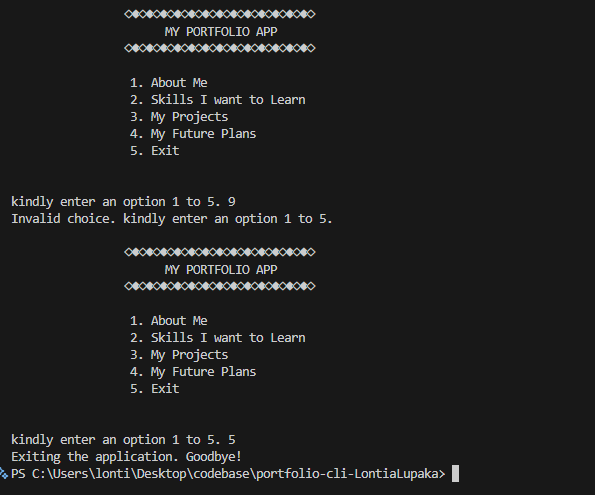
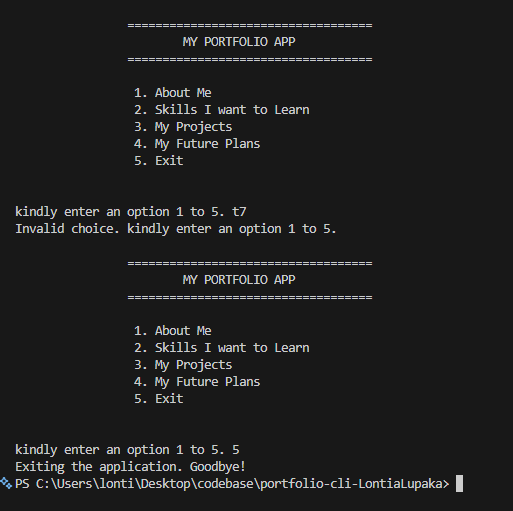
fourth commit

diff --git a/app.js b/app.js
@@ -6,9 +6,9 @@ const rl=readline.createInterface({
 
 function showMenu() {
     console.log(`                  
-                ◇◆◇◆◇◆◇◆◇◆◇◆◇◆◇◆◇◆◇◆◇◆◇◆◇◆◇
-                      MY PORTFOLIO APP
-                ◇◆◇◆◇◆◇◆◇◆◇◆◇◆◇◆◇◆◇◆◇◆◇◆◇◆◇
+                ===================================
+                        MY PORTFOLIO APP
+                ===================================
 
                  1. About Me
                  2. Skills I want to Learn
